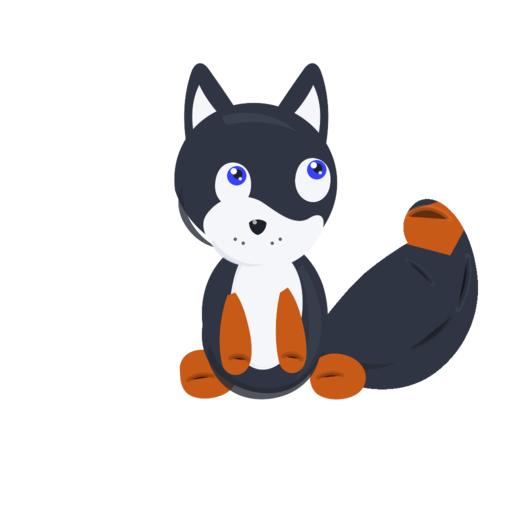
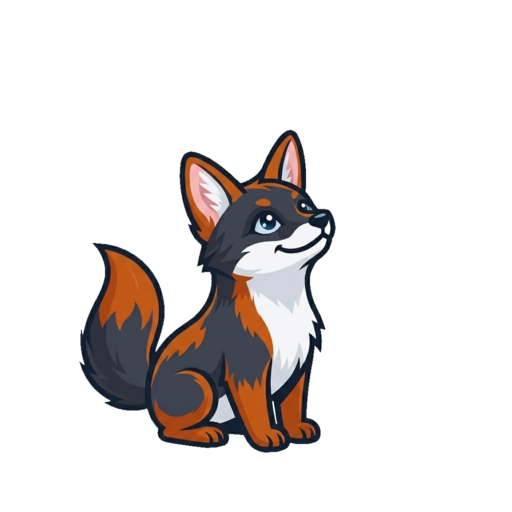
Ilustración final de Astro y versión vectorial simplificada

Changed region(s): [[0.1562, 0.125, 0.9375, 0.9062]]

diff --git a/DESARROLLO.md b/DESARROLLO.md
@@ -407,7 +407,7 @@ pasoorbital.example.com {
 | Oct 2026 | Corregido el comando de escucha LRPT de SatDump: el primer argumento es el pipeline (`meteor_m2-x_lrpt`), el segundo la carpeta de salida. |
 | Oct 2026 | Tabla: fechas relativas («hoy», «mañana», «Lunes 19 oct»), duración sin segundos y direcciones con nombre completo («Sur → Noreste»). |
 | Oct 2026 | Tabla simplificada: AOS pasa a «Aparece», se elimina la columna LOS (basta con Aparece + Duración) y el detalle usa «Punto más alto», «Termina» y «Dirección». |
-| Oct 2026 | Mascota **Astro** (zorro de Darwin) en SVG y PNG, con avatar y especificación de marca en `docs/astro.yaml`. |
+| Oct 2026 | Mascota **Astro** (zorro de Darwin): ilustración final, variantes y versión vectorial simplificada; especificación en `docs/astro.yaml`. |
 | Oct 2026 | Versión 1.3: altitud del terreno automática con Open-Meteo en web y escritorio, con caché y ajuste manual del edificio. |
 | Oct 2026 | Versión de escritorio GTK4/libadwaita y paquete `.deb` 1.2.0 (`desktop/`). |
 | Oct 2026 | Versión 1.1: guía «Cómo leer esta tabla», glosario contextual, cabeceras en lenguaje claro, resumen en lenguaje llano, pista de elevación mínima, ayuda UTC. |

diff --git a/AUTHORS.md b/AUTHORS.md
@@ -4,8 +4,9 @@
   mantenimiento.
 - **DeepSeek Harness (modelo deepseek-flash)** — implementación, documentación,
   empaquetado y revisión, en colaboración con Marcos.
-- **Astro (mascota)** — diseño vectorial por DeepSeek Harness (deepseek-flash),
-  a partir de la especificación de marca de Marcos Matamala Fernandez.
+- **Astro (mascota)** — ilustración final a partir de la referencia visual de
+  Marcos Matamala Fernandez; versión vectorial simplificada por DeepSeek Harness
+  (deepseek-flash).
 
 La titularidad legal del copyright corresponde a Marcos Matamala Fernandez.
 DeepSeek Harness se reconoce como coautor de la implementación y la

diff --git a/README.md b/README.md
@@ -46,8 +46,9 @@ de satélites. Es la mascota oficial de PasoOrbital. La especificación de marca
 está en [docs/astro.yaml](docs/astro.yaml); hay versiones en
 [512 px](docs/astro-512.png) y [avatar](docs/astro-avatar.png).
 
-Diseño vectorial: DeepSeek Harness (deepseek-flash), a partir de la
-especificación de Marcos Matamala Fernandez.
+Ilustración final a partir de la referencia visual aportada por Marcos
+Matamala Fernandez. La versión vectorial simplificada y editable está en
+[astro-vector.svg](docs/astro-vector.svg).
 
 ## Instalación
 
